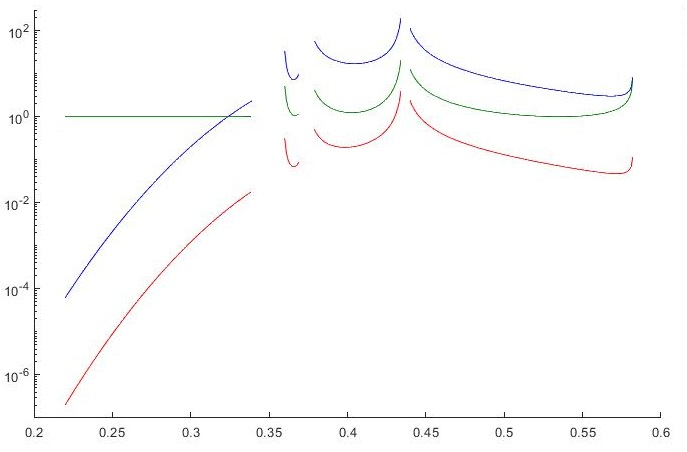
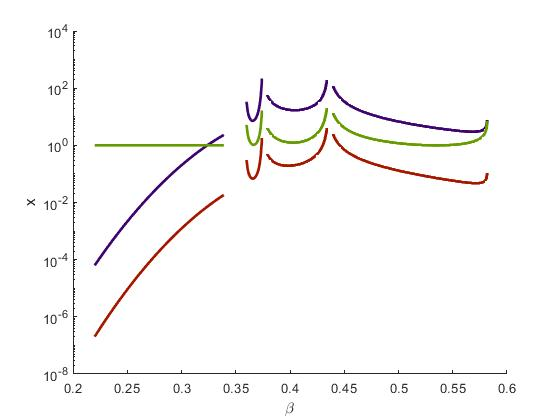
Upd

diff --git a/grpah/runner.py b/grpah/runner.py
@@ -2863,7 +2863,7 @@ def run_stochastic_sensitivity_b_noise_to_file():
         left2=0.379,
         right2=0.435,
         left3=0.36,
-        right3=0.37,
+        right3=0.375,
         left4=0.22,
         right4=0.34,
         m=lambda a, b, x: functions_b_noise.m(a, b, x, 0),
@@ -2908,7 +2908,7 @@ def run_stochastic_sensitivity_a_noise_to_file():
         left2=0.379,
         right2=0.435,
         left3=0.36,
-        right3=0.37,
+        right3=0.375,
         left4=0.22,
         right4=0.34,
         m=lambda a, b, x: functions_a_noise.m(a, b, x, 0),
@@ -2953,7 +2953,7 @@ def run_stochastic_sensitivity_additive_noise_to_file():
         left2=0.379,
         right2=0.435,
         left3=0.36,
-        right3=0.37,
+        right3=0.375,
         left4=0.22,
         right4=0.34,
         m=lambda a, b, x: functions_additive_noise.m(a, b, x, 0),

diff --git a/grpah/main.py b/grpah/main.py
@@ -76,9 +76,9 @@ if __name__ == "__main__":
     # run_m_b_additive_noise()
 
     # Выгрузить в файл данные по функции стохастической чувствительности
-    # run_stochastic_sensitivity_b_noise_to_file()
-    # run_stochastic_sensitivity_a_noise_to_file()
-    # run_stochastic_sensitivity_additive_noise_to_file()
+    run_stochastic_sensitivity_b_noise_to_file()
+    run_stochastic_sensitivity_a_noise_to_file()
+    run_stochastic_sensitivity_additive_noise_to_file()
 
     # run_machalanobis_alpha_noise()
     # run_machalanobis_beta_noise()
